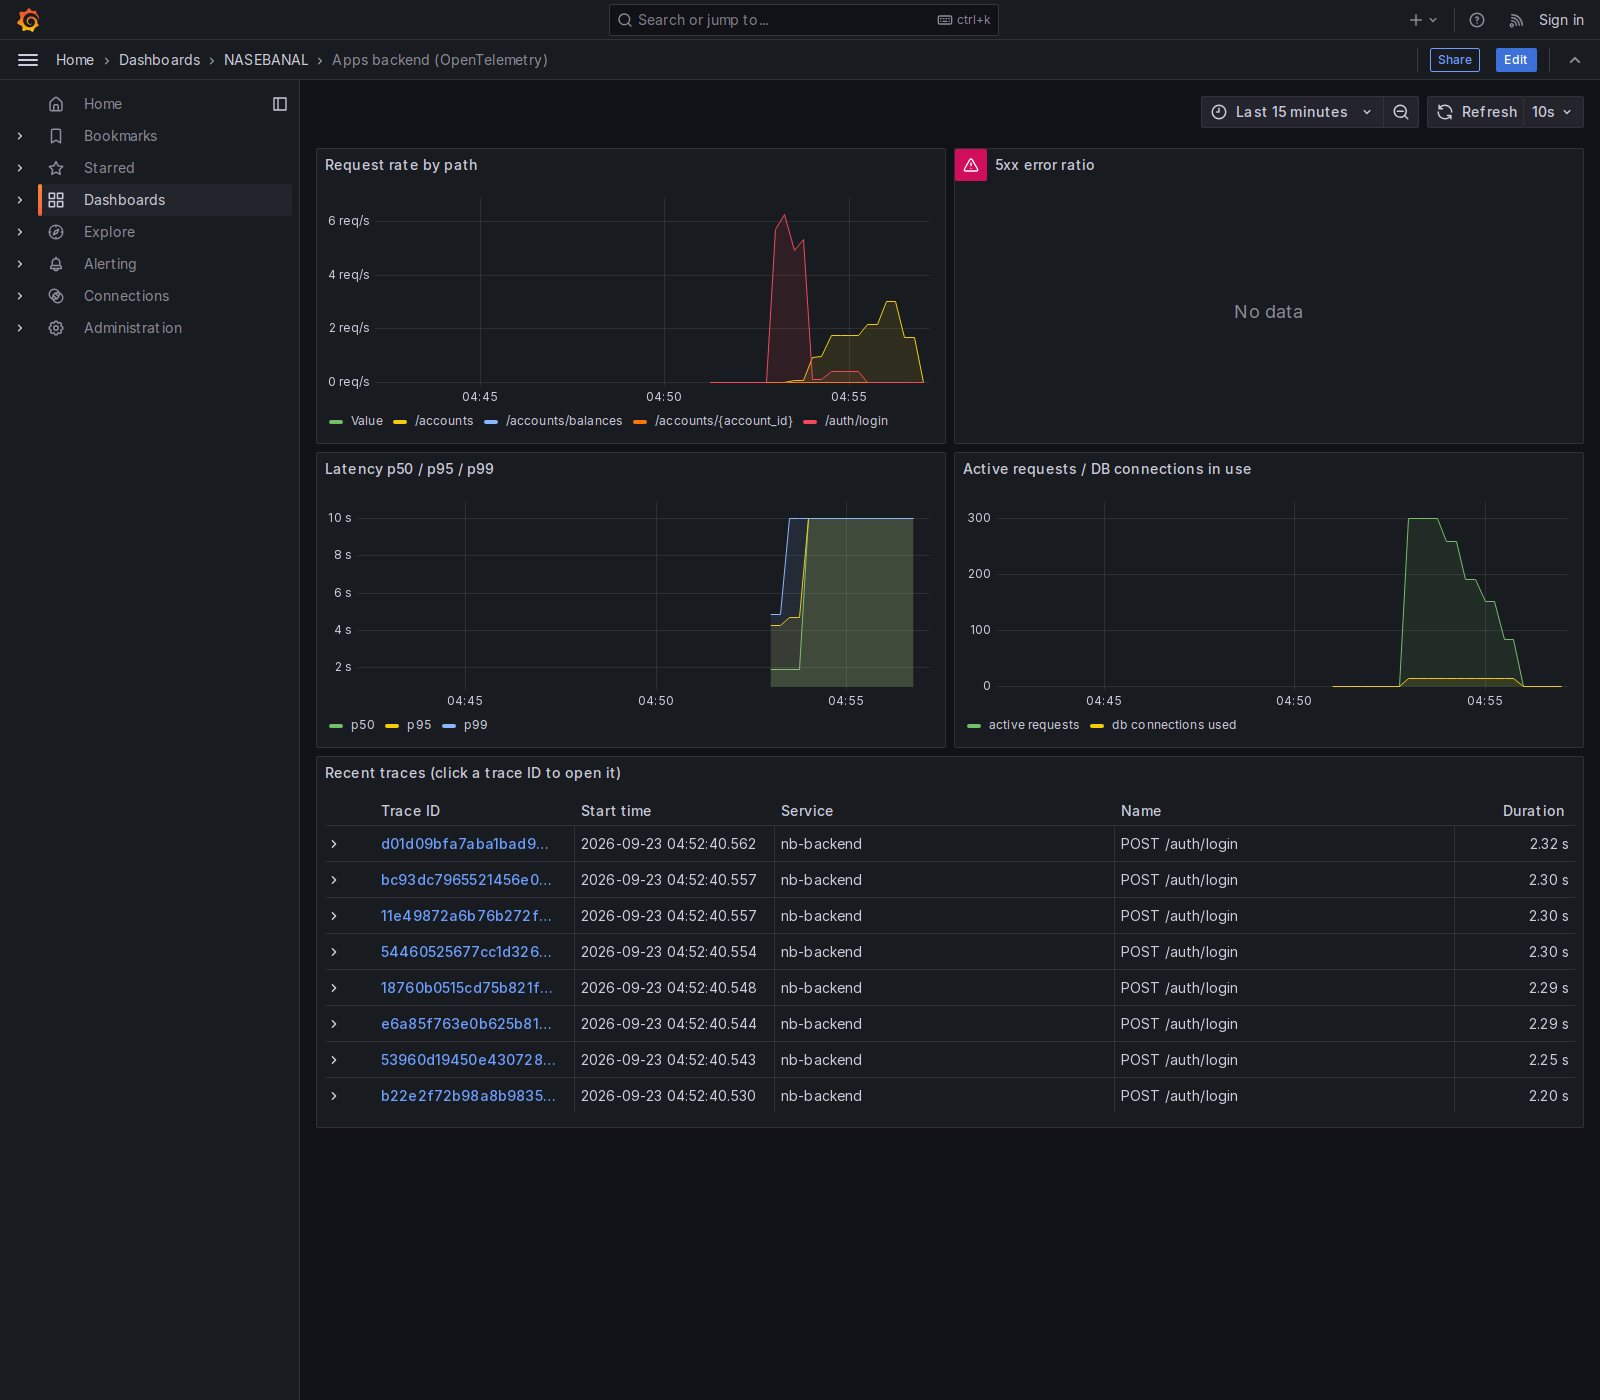
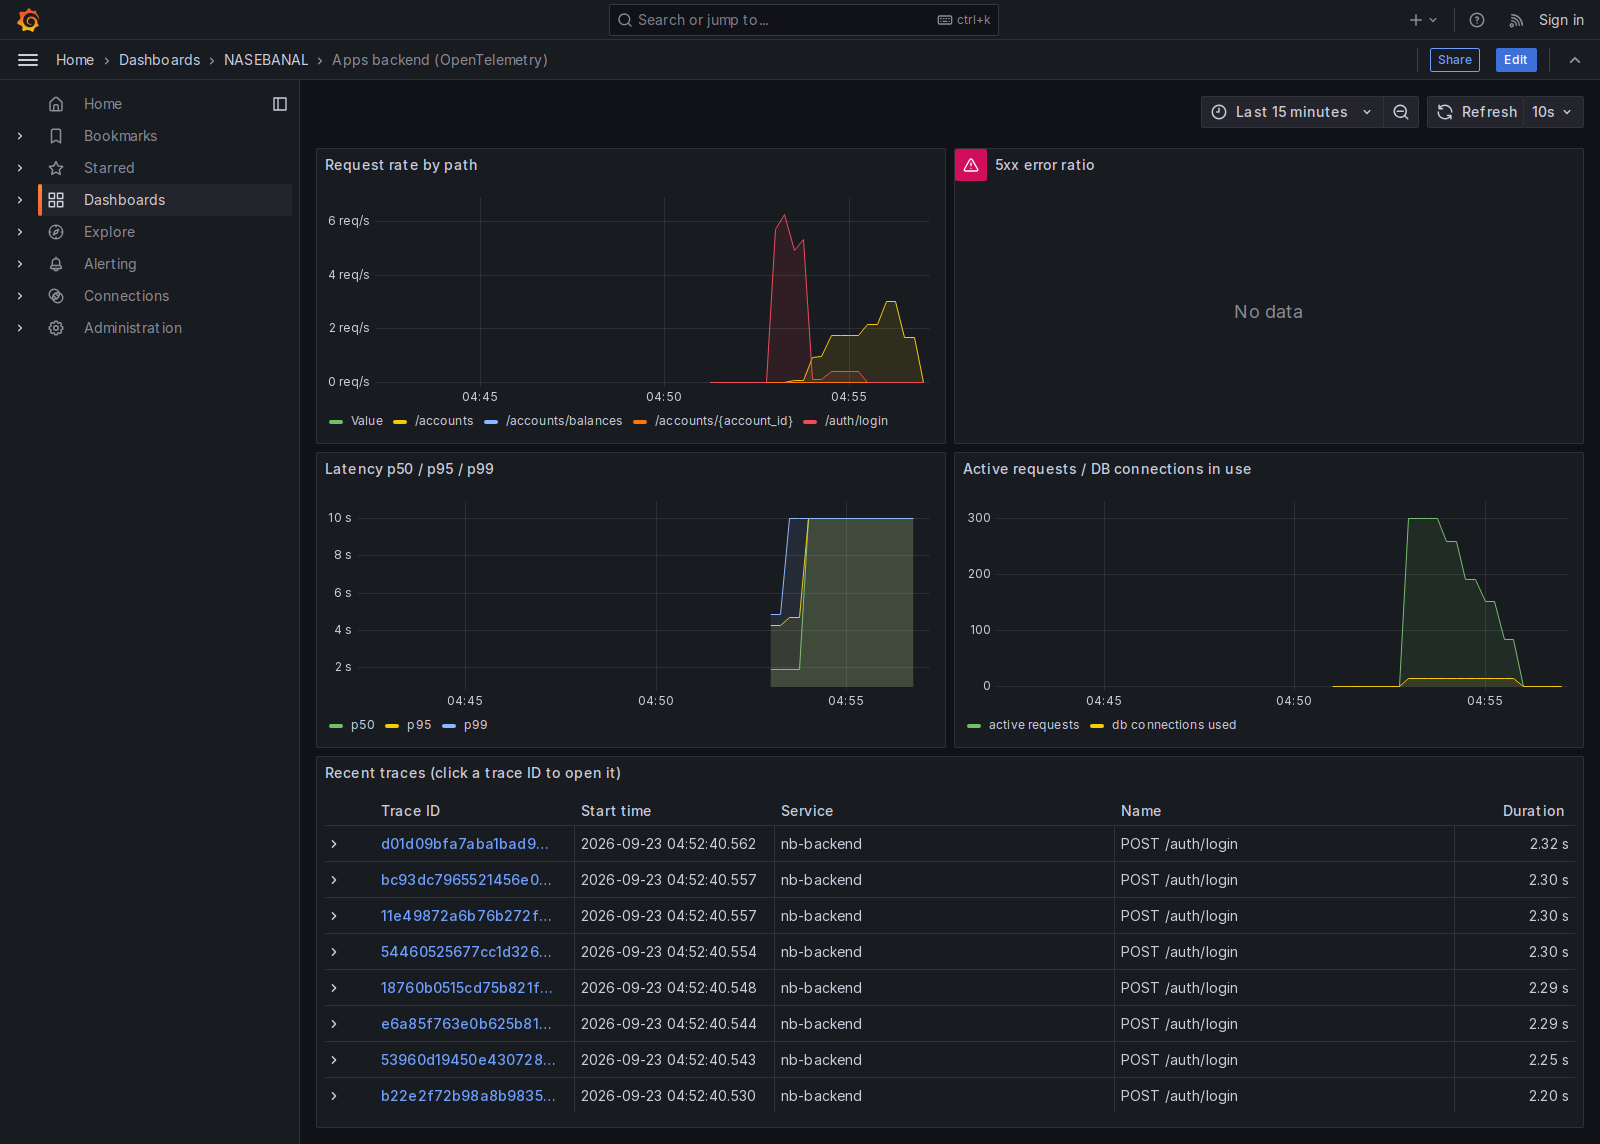
Say "unset" instead of "empty", stack docs screenshots, trim a blank one
- .env.example: settings that are off by default (KEYCLOAK_ISSUER, VAULT_ADDR/
  VAULT_TOKEN, APPS_OTEL_EXPORTER_OTLP_ENDPOINT, APPS_MCP_AUTH_REQUIRED, NB_TOKEN)
  ship commented out, and the header says what "unset" means; README, compose
  and Makefile comments and the in-app docs say "unset = off" / "uncomment"
  instead of "empty" (which could mean `VAR=` or a commented-out line). Only
  APPS_BACKEND_MYSQL_PASSWORD keeps "set, with no value" - there it is the point
- Docs: every block with two or more screenshots (Keycloak scenario, the
  observability scenario) is one column, like the Getting Started ones already were
- grafana-overload.png: cut 272px of blank space under the traces table

diff --git a/apps/frontend/src/lib/docs/scenarioKeycloak.ts b/apps/frontend/src/lib/docs/scenarioKeycloak.ts
@@ -121,7 +121,7 @@ export const scenarioKeycloak: LocalizedDocsPage = {
         code: [
           { label: "1. Start Keycloak", code: "make apps:up\nmake keycloak:up" },
           {
-            label: "2. Add this line to .env (.env.example already has it, empty) - this is what makes the login page show Keycloak",
+            label: "2. In .env, uncomment this line (remove the leading \"# \"; it is commented out in .env.example) - this is what makes the login page show Keycloak",
             code: "KEYCLOAK_ISSUER=http://localhost:8180/realms/nasebanal",
           },
           { label: "3. Recreate the backend and frontend so they pick it up", code: "make apps:restart" },
@@ -159,6 +159,7 @@ export const scenarioKeycloak: LocalizedDocsPage = {
             caption: "Where \"Log in with Keycloak\" lands: Keycloak's own page (localhost:8180) - the password is typed here, not in the app. \"Register\" is the sign-up.",
           },
         ],
+        imagesLayout: "stack",
         note:
           "Tokens are valid for 30 minutes (the realm's access token lifespan). After that, recording a " +
           "transaction gets a 401 and the app logs you out - log in again.",
@@ -218,7 +219,7 @@ export const scenarioKeycloak: LocalizedDocsPage = {
       {
         heading: "Returning to mock-login-only",
         code: [
-          { label: ".env:", code: "KEYCLOAK_ISSUER=" },
+          { label: ".env (comment the line out again):", code: "# KEYCLOAK_ISSUER=http://localhost:8180/realms/nasebanal" },
           { code: "make apps:restart" },
           { code: "make keycloak:down" },
         ],
@@ -347,7 +348,7 @@ export const scenarioKeycloak: LocalizedDocsPage = {
         code: [
           { label: "1. Keycloakを起動する", code: "make apps:up\nmake keycloak:up" },
           {
-            label: "2. .envに次の行を足す(.env.exampleには空の行がすでにあります) — ログイン画面にKeycloakを出すのはこの行です",
+            label: "2. .envの次の行のコメントを外す(先頭の「# 」を消します。.env.exampleではコメントアウトされています) — ログイン画面にKeycloakを出すのはこの行です",
             code: "KEYCLOAK_ISSUER=http://localhost:8180/realms/nasebanal",
           },
           { label: "3. backendとfrontendを再作成して反映する", code: "make apps:restart" },
@@ -386,6 +387,7 @@ export const scenarioKeycloak: LocalizedDocsPage = {
             caption: "「Keycloakでログイン」の遷移先: Keycloak自身のページ(localhost:8180)で、パスワードはアプリではなくここで入力します。「Register」がサインアップです。",
           },
         ],
+        imagesLayout: "stack",
         note:
           "トークンの有効期間は30分です(レルムのアクセストークン有効期間)。それを過ぎると、取引の記帳は" +
           "401になり、アプリがログアウトします — 再度ログインしてください。",
@@ -445,7 +447,7 @@ export const scenarioKeycloak: LocalizedDocsPage = {
       {
         heading: "モックログインのみに戻す",
         code: [
-          { label: ".env:", code: "KEYCLOAK_ISSUER=" },
+          { label: ".env(行をもう一度コメントアウトする):", code: "# KEYCLOAK_ISSUER=http://localhost:8180/realms/nasebanal" },
           { code: "make apps:restart" },
           { code: "make keycloak:down" },
         ],

diff --git a/apps/frontend/src/lib/docs/scenarioObservability.ts b/apps/frontend/src/lib/docs/scenarioObservability.ts
@@ -104,6 +104,7 @@ export const scenarioObservability: LocalizedDocsPage = {
               "A later run on the full stack: the firing-alerts panel, Loki's backend logs and the 5xx ratio panel, all populated by the same overload.",
           },
         ],
+        imagesLayout: "stack",
       },
       {
         heading: "What to look for",
@@ -242,6 +243,7 @@ export const scenarioObservability: LocalizedDocsPage = {
               "An MCP tool call through agentgateway: tools/call, the tool it resolved to, then the backend's REST request and query - the MCP call and the REST call in one trace.",
           },
         ],
+        imagesLayout: "stack",
         note:
           "Real runs. Every Kong trace of /api/accounts that was checked contained both nb-kong " +
           "and nb-backend spans, so the trace context is passed on to the backend (the plugin's " +
@@ -268,7 +270,7 @@ export const scenarioObservability: LocalizedDocsPage = {
         heading: "Cleanup",
         code: [{ code: "make observability:down" }],
         note:
-          "Turn export back off with APPS_OTEL_EXPORTER_OTLP_ENDPOINT= in .env, then apps:restart, once " +
+          "Turn export back off by commenting out APPS_OTEL_EXPORTER_OTLP_ENDPOINT in .env, then apps:restart, once " +
           "you're done - otherwise the backend keeps retrying an export target that's no longer there. " +
           "observability:reset additionally wipes stored metrics, traces, logs and Grafana state.",
       },
@@ -377,6 +379,7 @@ export const scenarioObservability: LocalizedDocsPage = {
               "スタック全体を起動した後の別の実行: 発火中アラートのパネル、Lokiのbackendログ、5xx比率のパネルが、同じoverloadですべて埋まる。",
           },
         ],
+        imagesLayout: "stack",
       },
       {
         heading: "確認するポイント",
@@ -515,6 +518,7 @@ export const scenarioObservability: LocalizedDocsPage = {
               "agentgateway経由のMCPツール呼び出し: tools/call、解決されたツール、そしてbackendのRESTリクエストとクエリ — MCP呼び出しとREST呼び出しが1本のトレースに入る。",
           },
         ],
+        imagesLayout: "stack",
         note:
           "実際の実行結果です。確認したKong経由の/api/accountsのトレースはすべて、nb-kongとnb-backendの" +
           "両方のスパンを含んでいたので、トレースコンテキストはbackendへ引き継がれています(プラグインの" +
@@ -541,7 +545,7 @@ export const scenarioObservability: LocalizedDocsPage = {
         heading: "環境のクリーンアップ",
         code: [{ code: "make observability:down" }],
         note:
-          "終わったら.envのAPPS_OTEL_EXPORTER_OTLP_ENDPOINT=を空に戻し、apps:restartしてください — そうしない" +
+          "終わったら.envのAPPS_OTEL_EXPORTER_OTLP_ENDPOINTの行をコメントアウトして、apps:restartしてください — そうしない" +
           "と、backendはもう存在しない送信先へのエクスポートをリトライし続けます。observability:resetは" +
           "さらに、保存済みのメトリクス・トレース・ログとGrafanaの状態も消します。",
       },

diff --git a/apps/frontend/src/lib/docs/scenarioVault.ts b/apps/frontend/src/lib/docs/scenarioVault.ts
@@ -91,7 +91,7 @@ export const scenarioVault: LocalizedDocsPage = {
         heading: "2. Take the password out of the backend - it can't log in",
         code: [
           {
-            label: ".env (set but empty - the backend now has no MySQL password of its own):",
+            label: ".env (set, with no value - the backend now has no MySQL password of its own):",
             code: "APPS_BACKEND_MYSQL_PASSWORD=",
           },
           { code: "make apps:restart" },
@@ -121,7 +121,7 @@ export const scenarioVault: LocalizedDocsPage = {
         heading: "3. Give the backend Vault - it logs in with a Vault-issued user",
         code: [
           {
-            label: ".env (keep APPS_BACKEND_MYSQL_PASSWORD empty):",
+            label: ".env (keep APPS_BACKEND_MYSQL_PASSWORD set, with no value):",
             code: "VAULT_ADDR=http://vault:8200\nVAULT_TOKEN=nb-vault-root-token",
           },
           { code: "make apps:restart" },
@@ -188,7 +188,7 @@ export const scenarioVault: LocalizedDocsPage = {
       {
         heading: "Returning to the normal configuration",
         code: [
-          { label: ".env:", code: "VAULT_ADDR=\nVAULT_TOKEN=\n# and remove the APPS_BACKEND_MYSQL_PASSWORD= line" },
+          { label: ".env (comment both out again):", code: "# VAULT_ADDR=http://vault:8200\n# VAULT_TOKEN=nb-vault-root-token\n# and remove the APPS_BACKEND_MYSQL_PASSWORD= line" },
           { code: "make apps:restart" },
         ],
       },
@@ -292,7 +292,7 @@ export const scenarioVault: LocalizedDocsPage = {
         heading: "2. backendからパスワードを取り除く — ログインできなくなる",
         code: [
           {
-            label: ".env(設定するが空にする — backendは自前のMySQLパスワードを持たなくなる):",
+            label: ".env(設定はするが値は書かない — backendは自前のMySQLパスワードを持たなくなる):",
             code: "APPS_BACKEND_MYSQL_PASSWORD=",
           },
           { code: "make apps:restart" },
@@ -322,7 +322,7 @@ export const scenarioVault: LocalizedDocsPage = {
         heading: "3. backendにVaultを渡す — Vaultが発行したユーザーでログインする",
         code: [
           {
-            label: ".env(APPS_BACKEND_MYSQL_PASSWORDは空のまま):",
+            label: ".env(APPS_BACKEND_MYSQL_PASSWORDは「設定はするが値は書かない」まま):",
             code: "VAULT_ADDR=http://vault:8200\nVAULT_TOKEN=nb-vault-root-token",
           },
           { code: "make apps:restart" },
@@ -385,7 +385,7 @@ export const scenarioVault: LocalizedDocsPage = {
       {
         heading: "通常の構成に戻す",
         code: [
-          { label: ".env:", code: "VAULT_ADDR=\nVAULT_TOKEN=\n# APPS_BACKEND_MYSQL_PASSWORD=の行は削除" },
+          { label: ".env(2行ともコメントアウトに戻す):", code: "# VAULT_ADDR=http://vault:8200\n# VAULT_TOKEN=nb-vault-root-token\n# APPS_BACKEND_MYSQL_PASSWORD=の行は削除" },
           { code: "make apps:restart" },
         ],
       },

diff --git a/README.md b/README.md
@@ -298,7 +298,7 @@ make keycloak:up                  # 1. start Keycloak
 ```
 
 ```bash
-# 2. .env (.env.example has the line, empty) - this is what makes the login page show Keycloak
+# 2. .env: uncomment this line (remove the leading "# "; it is commented out in .env.example) - this is what makes the login page show Keycloak
 KEYCLOAK_ISSUER=http://localhost:8180/realms/nasebanal
 ```
 
@@ -560,7 +560,7 @@ A variable that belongs to one module is prefixed with it (`APPS_`, `KONG_`, `KA
 
 | Variable | Default | Description |
 |---|---|---|
-| `NB_TOKEN` | *(empty)* | PAT / service-account token for NASEBANAL Assurance - what `<module>:report-upload` sends with. Empty = use the credentials from `nb auth login` (CI needs the token) |
+| `NB_TOKEN` | *(unset)* | PAT / service-account token for NASEBANAL Assurance - what `<module>:report-upload` sends with. Unset = use the credentials from `nb auth login` (CI needs the token) |
 | `NB_BASE_URL` | `https://api.assurance.nasebanal.com` | The Assurance **API** (not the web UI). A local `npm run dev` of nb-assurance-api is `http://localhost:8791` |
 | `PROJECT_NAME` | `nb-quickstarts` | The Assurance project the runs go to (created on first upload) |
 | `NB_RUN_KEY` | *(`local-<commit>-<day>`)* | Groups several uploads into one run |
@@ -577,10 +577,10 @@ A variable that belongs to one module is prefixed with it (`APPS_`, `KONG_`, `KA
 | `APPS_MCP_INSPECTOR_TOKEN` | `nb-mcp-inspector-token` | The Inspector UI's auth token, pinned (random per start otherwise) and put in the URL by `make apps:mcp`. A fixed public default - local demo only |
 | `APPS_API_BASE` | `http://localhost:8080` | Where `apps/frontend` calls the backend - direct, or `http://localhost:8000/api` to route through Kong instead (needs `kong:up` + `apps:restart`) |
 | `APPS_KAFKA_BRIDGE_HEALTH_URL` | `http://localhost:8090` | Where the frontend checks kafka-bridge's health - see [Kafka bridge](#kafka-bridge-comparing-rest-vs-kafka-buffered-ingestion) |
-| `APPS_MCP_AUTH_REQUIRED` | *(empty = off)* | `true` puts `/mcp` behind a login: an MCP client such as Claude Code gets a 401, opens the browser on the frontend's `/mcp-authorize` page (the app's usual demo / Keycloak login) and carries the resulting token into every tool call. Needs `apps:restart`; MCP Inspector and agentgateway then need a token too |
+| `APPS_MCP_AUTH_REQUIRED` | *(unset = off)* | `true` puts `/mcp` behind a login: an MCP client such as Claude Code gets a 401, opens the browser on the frontend's `/mcp-authorize` page (the app's usual demo / Keycloak login) and carries the resulting token into every tool call. Needs `apps:restart`; MCP Inspector and agentgateway then need a token too |
 | `APPS_PUBLIC_BASE_URL` / `APPS_MCP_AUTHORIZE_URL` | `http://localhost:8080` / `http://localhost:5173/mcp-authorize` | The addresses the MCP client and browser use for the MCP login (host-published, not in-network) - change only when the backend / frontend are reached elsewhere |
-| `KEYCLOAK_ISSUER` | *(empty = off)* | Turns on Keycloak for `apps/backend` and the login page: `http://localhost:8180/realms/nasebanal` - see [Keycloak](#keycloak) |
-| `VAULT_ADDR` / `VAULT_TOKEN` | *(both empty = off)* | Where `apps/backend` asks for a Vault-issued MySQL credential - see [Vault](#vault) |
+| `KEYCLOAK_ISSUER` | *(unset = off)* | Turns on Keycloak for `apps/backend` and the login page: `http://localhost:8180/realms/nasebanal` - see [Keycloak](#keycloak) |
+| `VAULT_ADDR` / `VAULT_TOKEN` | *(both unset = off)* | Where `apps/backend` asks for a Vault-issued MySQL credential - see [Vault](#vault) |
 
 ### Kong
 
@@ -606,7 +606,7 @@ A variable that belongs to one module is prefixed with it (`APPS_`, `KONG_`, `KA
 |---|---|---|
 | `KEYCLOAK_PORT` | `8180` | Host-published admin console / realm port |
 | `KEYCLOAK_ADMIN` / `KEYCLOAK_ADMIN_PASSWORD` | `admin` / `admin` | Admin console login |
-| `KEYCLOAK_ISSUER` (an `apps` variable - see [Apps](#apps) below) | *(empty = off)* | Turns on Keycloak for `apps/backend` and the login page - `http://localhost:8180/realms/nasebanal` (the address the browser logs in at; match `KEYCLOAK_PORT`), plus `apps:restart` |
+| `KEYCLOAK_ISSUER` (an `apps` variable - see [Apps](#apps) below) | *(unset = off)* | Turns on Keycloak for `apps/backend` and the login page - `http://localhost:8180/realms/nasebanal` (the address the browser logs in at; match `KEYCLOAK_PORT`), plus `apps:restart` |
 
 ### Vault
 
@@ -614,7 +614,7 @@ A variable that belongs to one module is prefixed with it (`APPS_`, `KONG_`, `KA
 |---|---|---|
 | `VAULT_PORT` | `8200` | Host-published UI / API port |
 | `VAULT_ROOT_TOKEN` | `nb-vault-root-token` | Dev-mode root token |
-| `VAULT_ADDR` / `VAULT_TOKEN` (`apps` variables - see [Apps](#apps) below) | *(both empty = off)* | Where `apps/backend` asks for a Vault-issued MySQL credential - `http://vault:8200` / `nb-vault-root-token` to turn it on (plus `apps:restart`); `make vault:verify-apps` sets them for one recreate instead |
+| `VAULT_ADDR` / `VAULT_TOKEN` (`apps` variables - see [Apps](#apps) below) | *(both unset = off)* | Where `apps/backend` asks for a Vault-issued MySQL credential - `http://vault:8200` / `nb-vault-root-token` to turn it on (plus `apps:restart`); `make vault:verify-apps` sets them for one recreate instead |
 
 ### Specmatic & Playwright
 
@@ -664,7 +664,7 @@ No target-host variable, unlike every module above - see [OWASP ZAP: scanning ap
 
 | Variable | Default | Description |
 |---|---|---|
-| `APPS_OTEL_EXPORTER_OTLP_ENDPOINT` | *(empty = off)* | Where `apps/backend` exports OTLP. Set to `http://otel-collector:4318` for the local stack (needs `apps:restart`) |
+| `APPS_OTEL_EXPORTER_OTLP_ENDPOINT` | *(unset = off)* | Where `apps/backend` exports OTLP. Set to `http://otel-collector:4318` for the local stack (needs `apps:restart`) |
 | `OBSERVABILITY_GRAFANA_PORT` | `3030` | Host-published Grafana port - defaults away from Grafana's own `3000`, a common Node/React dev-server port |
 | `OBSERVABILITY_PROMETHEUS_PORT` | `9094` | Host-published Prometheus port (`9091` is taken by Specmatic) |
 | `OBSERVABILITY_TEMPO_PORT` | `3200` | Host-published Tempo query API port |
